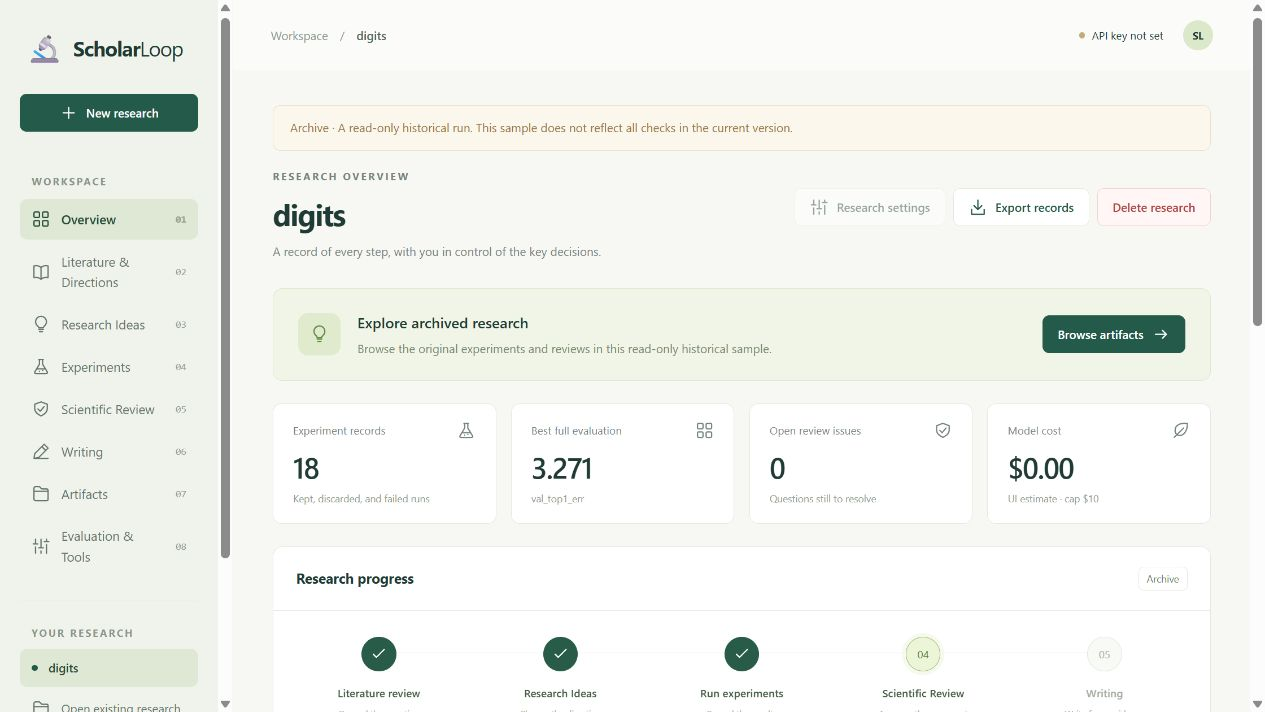
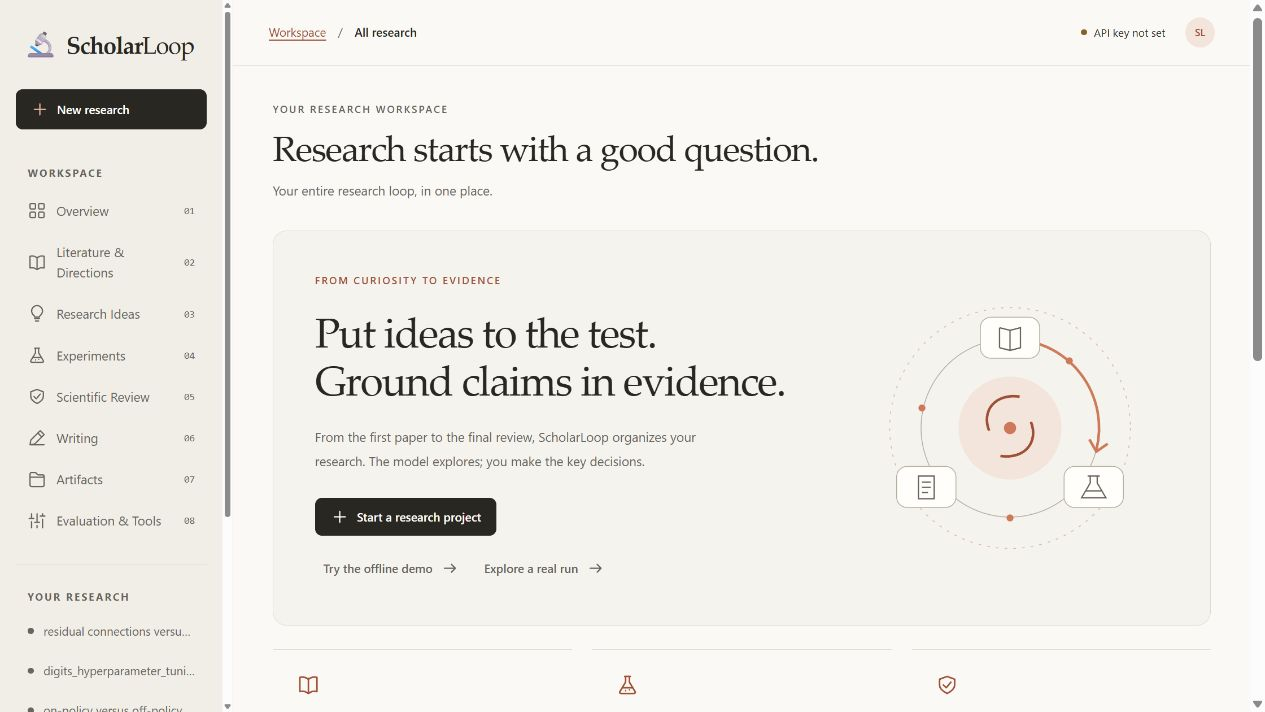
change ui style

diff --git a/scholarloop/ui/static/style.css b/scholarloop/ui/static/style.css
@@ -1,12 +1,315 @@
 @charset "UTF-8";
-:root{--bg:#f7f8f4;--paper:#fff;--ink:#203b35;--muted:#78857e;--line:#e3e8e1;--green:#245a49;--lime:#e4f1c0;--pale:#eff4e9;--orange:#bb643e;--red:#b14343;--shadow:0 16px 60px #203b3510;font-family:Inter,"Segoe UI","Microsoft YaHei",system-ui,sans-serif;color:var(--ink);font-size:14px;line-height:1.6;font-synthesis:none}
-*{box-sizing:border-box}body{margin:0;background:var(--bg)}button,input,select,textarea{font:inherit}button,a,input,select,textarea{touch-action:manipulation}button{cursor:pointer}button:disabled{cursor:not-allowed;opacity:.45}a{color:var(--green)}button:focus-visible,a:focus-visible,input:focus-visible,textarea:focus-visible,select:focus-visible{outline:3px solid #99be65;outline-offset:3px}button{color:inherit}svg{flex-shrink:0}h1,h2,h3,p{margin:0}h1{font-size:30px;line-height:1.3;letter-spacing:-1px;font-weight:650}h2{font-size:18px;font-weight:650}h3{font-size:15px;font-weight:600}small{font-size:12px}.muted{color:var(--muted)}.mono{font-family:"Cascadia Code",Consolas,monospace;font-size:12px}.eyebrow{font-size:10px;font-weight:700;letter-spacing:2px;text-transform:uppercase;color:var(--muted)}.icon{width:19px;height:19px;stroke:currentColor;fill:none;stroke-width:1.65;stroke-linecap:round;stroke-linejoin:round}.skip-link{position:fixed;top:-80px;left:20px;z-index:100;background:white;padding:12px}.skip-link:focus{top:8px}.boot{padding:100px;font-size:32px}.boot span{display:block;font-size:14px;color:var(--muted)}
-.shell{display:grid;grid-template-columns:236px minmax(0,1fr);min-height:100vh}.sidebar{position:sticky;top:0;height:100vh;padding:32px 20px 20px;background:#f0f3ec;border-right:1px solid var(--line);display:flex;flex-direction:column;overflow-y:auto}.brand{display:flex;align-items:center;gap:12px;font-size:21px;font-weight:650;letter-spacing:-.8px;padding:0 8px 29px}.brand img{width:34px;height:34px}.brand span span{font-weight:400}.new-button{width:100%;justify-content:center;margin-bottom:30px}.nav-label{padding:0 12px;margin:12px 0 8px;font-size:10px;letter-spacing:1.8px;color:#8b978b;font-weight:650}.nav-item{border:0;background:none;text-align:left;width:100%;padding:10px 12px;border-radius:8px;display:flex;align-items:center;gap:11px;color:#67766b;margin:2px 0;font-size:13px}.nav-item:hover{background:#e7ecdf}.nav-item.active{background:#dfe8d4;color:#284d39;font-weight:600}.nav-item .number{margin-left:auto;font-size:10px;color:#94a18f;font-family:monospace}.project-list{border-top:1px solid #dfe5d9;margin-top:22px;padding-top:12px}.project{font-size:12px}.project .dot{width:6px;height:6px;border-radius:50%;background:#9daa93;flex-shrink:0}.project.active .dot{background:var(--green)}.project span.title{overflow:hidden;text-overflow:ellipsis;white-space:nowrap}.sidebar-bottom{margin-top:auto;padding-top:25px}.local-status{padding:14px 10px 0;border-top:1px solid #dfe5d9;font-size:10px;color:#87927f;letter-spacing:.5px;display:flex;align-items:center;gap:7px}.status-dot{width:6px;height:6px;background:#78a56b;border-radius:50%;display:inline-block}.workspace{min-width:0}.topbar{height:72px;padding:0 38px;border-bottom:1px solid var(--line);display:flex;justify-content:space-between;align-items:center;background:#fbfcf9;gap:16px}.breadcrumb{font-size:12px;color:#8d998f;display:flex;gap:12px;align-items:center;min-width:0}.breadcrumb strong{font-weight:500;color:#53685c;max-width:420px;white-space:nowrap;overflow:hidden;text-overflow:ellipsis}.top-actions{display:flex;align-items:center;gap:14px}.connection{font-size:11px;display:flex;gap:7px;align-items:center;background:none;border:0;white-space:nowrap}.connection.off .status-dot{background:#c5aa7e}.avatar{width:30px;height:30px;border-radius:50%;background:#dce8ca;display:grid;place-items:center;font-size:10px;font-weight:650}.content{max-width:1440px;margin:auto;padding:34px 40px 50px}.page-heading{display:flex;align-items:flex-start;justify-content:space-between;gap:20px;margin-bottom:28px}.page-heading .eyebrow{margin-bottom:10px}.subtitle{color:var(--muted);margin-top:9px;font-size:12px}.heading-actions{display:flex;gap:8px;align-items:center;padding-top:20px}.btn{display:inline-flex;gap:8px;align-items:center;justify-content:center;padding:9px 15px;border:1px solid var(--line);border-radius:7px;background:white;text-decoration:none;font-size:12px;line-height:1.6;font-weight:500;white-space:nowrap}.btn:hover{border-color:#adc2a3;background:#f7faf1}.btn.primary{color:white;background:var(--green);border-color:var(--green)}.btn.primary:hover{background:#1b493c}.btn.soft{background:var(--lime);border-color:var(--lime);color:#365337}.btn.ghost{background:transparent;border-color:transparent;padding:5px 8px;color:var(--muted)}.btn.danger{color:var(--red);background:#fff6f5;border-color:#f0d2ce}.btn.small{padding:5px 10px;font-size:11px}.btn.icon-only{padding:8px}.tag{display:inline-flex;gap:5px;align-items:center;font-size:10px;line-height:1.5;border-radius:5px;background:#edf1e8;color:#6a7b60;padding:4px 8px;white-space:nowrap}.tag.green{background:#e5f0de;color:#4f763e}.tag.amber{background:#faf0df;color:#a77837}.tag.red{background:#fae9e4;color:#ac5a45}.tag.blue{background:#e7eff5;color:#527491}.tag.outline{background:transparent;border:1px solid var(--line)}.tags{display:flex;gap:7px;flex-wrap:wrap;margin-top:13px}.panel{background:var(--paper);border:1px solid var(--line);border-radius:10px;overflow:hidden}.panel-header{display:flex;align-items:center;justify-content:space-between;padding:20px 23px;border-bottom:1px solid var(--line);gap:14px}.panel-header h2{font-size:14px}.panel-body{padding:22px 24px}.row{display:flex;align-items:center;gap:12px}.space-between{justify-content:space-between}.stack{display:grid;gap:20px}.grid-two{display:grid;grid-template-columns:minmax(0,1.6fr) minmax(270px,1fr);gap:22px}.cards{display:grid;grid-template-columns:repeat(3,minmax(0,1fr));gap:17px}.stats{display:grid;grid-template-columns:repeat(4,minmax(0,1fr));gap:15px;margin:23px 0}.stat{background:white;border:1px solid var(--line);border-radius:9px;padding:17px 20px}.stat-label{font-size:11px;color:var(--muted);display:flex;align-items:center;justify-content:space-between}.stat-value{font-family:"Segoe UI",sans-serif;font-size:29px;letter-spacing:-1px;line-height:1.5;margin-top:6px;font-weight:500}.stat-note{font-size:10px;color:#93a08e;margin-top:2px}.stat-value small{font-size:13px;letter-spacing:0;color:var(--muted);margin-left:4px}.callout{padding:22px 25px;border:1px solid #dce9cb;background:#f0f5e8;border-radius:10px;display:flex;align-items:center;gap:17px}.callout .callout-icon{background:#e0ebce;width:43px;height:43px;border-radius:10px;display:grid;place-items:center;flex-shrink:0;color:#618a43}.callout p{font-size:12px;color:#7a8b6e;margin-top:5px}.callout .btn{margin-left:auto}.callout h3{font-weight:600}.notice{padding:13px 17px;border:1px solid #eadfc8;border-radius:8px;background:#fcf7ec;color:#997746;font-size:12px;margin-bottom:18px}.notice.error{color:#a34d43;border-color:#eed1cb;background:#fff3ef}.workflow{display:grid;grid-template-columns:repeat(5,minmax(0,1fr));gap:0;padding:25px 15px 24px}.workflow-step{position:relative;text-align:center;border:0;background:none;min-width:0;color:#a5afa0}.workflow-step:before{content:"";position:absolute;height:1px;background:#e3e9db;top:17px;left:-50%;width:100%;z-index:0}.workflow-step:first-child:before{display:none}.step-circle{width:35px;height:35px;border:1px solid #e0e7d8;border-radius:50%;display:grid;place-items:center;background:#f8faf5;position:relative;margin:0 auto 10px;z-index:1;font-size:11px}.workflow-step.current .step-circle{background:#edf5d8;border:1px solid #9fb879;color:#4f773c;box-shadow:0 0 0 4px #f6f9ed}.workflow-step.done .step-circle{background:#285c48;border-color:#285c48;color:#fff}.workflow-step.current,.workflow-step.done{color:#425c42}.workflow-step strong{font-size:11px;font-weight:500}.workflow-step small{display:block;font-size:9px;color:#a4af9c;margin-top:3px}.list-row{padding:15px 22px;border-bottom:1px solid #eef1e9;display:flex;align-items:center;gap:12px}.list-row:last-child{border-bottom:0}.list-row .grow{flex:1;min-width:0}.list-row .grow strong{font-weight:500;font-size:12px}.list-row .grow small{display:block;color:var(--muted);margin-top:3px;word-break:break-word}.file-icon{width:34px;height:38px;background:#f3f5ee;border:1px solid #e8eddf;border-radius:6px;display:grid;place-items:center;color:#7c916f}.empty{padding:40px 22px;text-align:center;color:var(--muted);font-size:12px}.empty .empty-symbol{width:50px;height:50px;border:1px dashed #ccd8c2;background:#f5f8ef;border-radius:13px;display:grid;place-items:center;margin:0 auto 13px;color:#91a17f}.empty h3{color:#61715a;font-size:13px;font-weight:500;margin-bottom:7px}.empty p{max-width:370px;margin:auto;line-height:1.9}.empty .btn{margin-top:19px}.welcome{min-height:460px;background:#edf2e6;border:1px solid #dee6d4;border-radius:14px;padding:54px;position:relative;overflow:hidden;display:grid;grid-template-columns:1.3fr 1fr;align-items:center;gap:30px}.welcome h1{font-size:43px;line-height:1.45;letter-spacing:-1.5px;margin:18px 0}.welcome p{font-size:13px;line-height:1.9;color:#748369;max-width:390px;margin-bottom:28px}.welcome-art{width:100%;max-width:330px;justify-self:center}.welcome .eyebrow{color:#7e9567}.welcome-links{display:flex;gap:12px;margin-top:18px}.feature-grid{display:grid;grid-template-columns:repeat(3,1fr);gap:20px;margin-top:25px}.feature{padding:25px}.feature .icon{color:#7c9667;width:23px;height:23px}.feature h3{margin:14px 0 6px;font-size:13px}.feature p{font-size:12px;color:var(--muted);line-height:1.9}.project-grid{margin-top:30px}.project-card{padding:23px;border:1px solid var(--line);border-radius:9px;background:white;cursor:pointer;text-align:left;width:100%}.project-card:hover{border-color:#aebf9b;box-shadow:var(--shadow)}.project-card h3{margin:12px 0 10px}.project-card .muted{font-size:11px}.section-title{display:flex;align-items:center;justify-content:space-between;margin-bottom:15px}.section-title h2{font-size:15px}.direction-card,.idea-card{padding:23px;display:flex;flex-direction:column;gap:12px}.direction-card p,.idea-card p{color:#7b8877;font-size:12px;line-height:1.9}.direction-card .btn,.idea-card .btn{margin-top:auto}.card-number{font-family:monospace;color:#a7b299;font-size:12px}.card-meta{font-size:10px;color:#94a185;border-top:1px solid var(--line);padding-top:12px}.action-row{display:flex;gap:8px;flex-wrap:wrap;margin:0 0 20px}.table-wrap{overflow-x:auto}table{border-collapse:collapse;width:100%;font-size:12px}th{text-align:left;font-size:10px;letter-spacing:.4px;color:#8c9a84;background:#f9fbf6;padding:11px 19px;font-weight:500;white-space:nowrap}td{padding:14px 19px;border-top:1px solid #edf1e7;white-space:nowrap}td.long{max-width:270px;overflow:hidden;text-overflow:ellipsis}.score{font-weight:650;color:#4e7251}.chart{padding:15px 20px 0}.chart svg{width:100%;height:160px;display:block}.chart-caption{font-size:10px;color:#99a48f;padding:0 25px 18px}.chart-grid{stroke:#ecf0e5;stroke-dasharray:4 4}.chart-line{stroke:#709453;stroke-width:2.5;fill:none}.chart-dot{fill:#f8fbf3;stroke:#709453;stroke-width:2}.chart-label{fill:#9ba98f;font-size:10px;font-family:inherit}.tool-grid{display:grid;grid-template-columns:repeat(2,minmax(0,1fr));gap:16px}.tool-card{padding:22px}.tool-card p{font-size:12px;color:var(--muted);margin:7px 0 18px}.issue{border-left:3px solid #d6ac7e;margin:16px 22px;padding:4px 0 4px 14px}.issue p{font-size:12px;line-height:1.8;color:#7c8273;margin-top:5px}.issue strong{font-size:12px}.writing-stages{display:flex;gap:10px;margin-bottom:25px;flex-wrap:wrap}.writing-stage{padding:12px 18px;border:1px solid var(--line);border-radius:8px;background:white;font-size:12px;flex:1;min-width:120px}.writing-stage.active{background:#edf4df;border-color:#bad296}.writing-stage .eyebrow{margin-bottom:3px}.file-search{padding:10px 14px;width:100%;border:1px solid var(--line);background:white;border-radius:7px;margin-bottom:16px}.file-list{max-height:570px;overflow-y:auto}.file-list .list-row{padding:12px 18px}.file-name{background:none;border:0;text-align:left;font-size:12px;color:#405a3c;overflow-wrap:anywhere}.file-name:hover{text-decoration:underline}.log{margin:0;background:#203c33;color:#c7dac3;padding:23px;font-family:"Cascadia Code",Consolas,monospace;font-size:11px;line-height:1.9;white-space:pre-wrap;overflow-wrap:anywhere;max-height:350px;overflow-y:auto;min-height:100px}.log-placeholder{color:#9aaa92}.task-row{width:100%;text-align:left;background:white;border:0;border-bottom:1px solid var(--line)}.task-row:hover,.task-row.selected{background:#f5f8ee}.task-time{font-size:10px;color:var(--muted)}.task-summary{font-size:11px;color:#90a084;padding:11px 22px;background:#f8faf4}.pulsing{animation:pulse 1.6s infinite}@keyframes pulse{50%{opacity:.4}}.footer-note{font-size:10px;color:#a0aa97;margin-top:26px;display:flex;justify-content:space-between;gap:16px}.spacer{height:22px}
-dialog{border:1px solid #e0e7d6;border-radius:14px;padding:0;width:min(620px,calc(100vw - 32px));max-height:88vh;color:var(--ink);background:#fbfcf8;box-shadow:0 30px 100px #142d3940}dialog::backdrop{background:#20352a65;backdrop-filter:blur(3px)}.dialog-header{padding:24px 27px 20px;background:#fff;border-bottom:1px solid var(--line);display:flex;align-items:flex-start;justify-content:space-between;gap:20px}.dialog-header h2{font-size:19px}.dialog-header p{font-size:11px;color:var(--muted);margin-top:7px}.dialog-body{padding:24px 27px;overflow-y:auto;max-height:65vh}.dialog-footer{padding:17px 27px;border-top:1px solid var(--line);display:flex;justify-content:flex-end;gap:10px;background:white}.field{display:grid;gap:6px;margin-bottom:18px}.field label{font-size:12px;color:#61755c}.field input,.field select,.field textarea{width:100%;padding:10px 12px;border:1px solid #dfe5d6;border-radius:7px;background:#fff;color:var(--ink);font-size:12px;min-width:0}.field textarea{resize:vertical;min-height:83px;line-height:1.8}.field textarea.code{font-family:Consolas,monospace;font-size:11px;min-height:140px}.field small{color:#8a9880;font-size:10px}.field.checkbox{display:flex;align-items:center;gap:9px}.field.checkbox input{width:16px;height:16px;accent-color:var(--green)}.field.checkbox label{margin:0}.form-grid{display:grid;grid-template-columns:1fr 1fr;gap:0 18px}.form-error{padding:12px;background:#fff0e9;color:#b6533e;border-radius:7px;font-size:12px;white-space:pre-wrap;overflow-wrap:anywhere;margin-bottom:15px}.form-note{font-size:11px;line-height:1.8;color:#8a967e;margin-bottom:20px}.field-required{color:#b98c50}.artifact-dialog{width:min(1020px,calc(100vw - 38px))}.artifact-content{padding:30px 40px;max-height:70vh;overflow:auto;background:white;color:#495b47;font-size:13px;line-height:1.9}.artifact-content pre{white-space:pre-wrap;overflow-wrap:anywhere;font:12px/1.8 "Cascadia Code",Consolas,monospace}.artifact-content h1{font-size:26px;margin:0 0 20px}.artifact-content h2{font-size:20px;margin:25px 0 12px}.artifact-content h3{font-size:16px;margin:20px 0 10px}.artifact-content p{margin:12px 0;overflow-wrap:anywhere}.artifact-content li{margin:5px 0}.artifact-content blockquote{border-left:3px solid #c5d7b2;padding:6px 18px;background:#f6f9f0;margin:16px 0}.artifact-content code{font:12px Consolas,monospace;background:#f0f4e9;padding:2px 4px}.artifact-content pre code{background:transparent}.artifact-content table{white-space:normal;display:block;overflow-x:auto;margin:18px 0}.artifact-content th,.artifact-content td{white-space:normal;min-width:110px;padding:10px 12px}.artifact-content hr{border:0;border-top:1px solid var(--line);margin:25px 0}details{margin-top:15px}summary{cursor:pointer;font-size:12px;color:var(--muted)}.setting-line{display:flex;justify-content:space-between;padding:9px 0;border-bottom:1px solid var(--line);font-size:12px}.setting-line span{color:var(--muted)}#toast{position:fixed;bottom:27px;left:50%;transform:translateX(-50%);background:#254d3d;color:#f1f5ec;padding:13px 23px;border-radius:9px;font-size:12px;box-shadow:var(--shadow);z-index:100;max-width:90vw}#toast.error{background:#9d4c3f}
-@media(min-width:1600px){.content{padding-top:44px}.welcome{min-height:500px}.welcome h1{font-size:48px}}
-@media(max-width:1150px){.shell{grid-template-columns:205px minmax(0,1fr)}.sidebar{padding:25px 14px}.content{padding:28px 25px}.topbar{padding:0 25px}.grid-two{grid-template-columns:1fr}.cards{grid-template-columns:repeat(2,1fr)}.welcome{padding:35px}.welcome h1{font-size:35px}.welcome-art{max-width:250px}.stat{padding:15px}.stat-value{font-size:25px}.callout{flex-wrap:wrap}.callout .btn{margin-left:60px}}
-.agent-activity{margin:0;padding:14px 20px;border-top:1px solid var(--line)}.agent-activity .list-row{padding:10px 0}.agent-activity summary{font-size:11px}
-.breadcrumb-home{border:0;background:none;padding:0;color:inherit;font:inherit}.breadcrumb-home:hover{color:var(--green);text-decoration:underline;text-underline-offset:3px}
-.brand-row{display:flex;align-items:flex-start;gap:4px}.brand{border:0;background:none;text-align:left;color:inherit;white-space:nowrap}.brand:hover{color:var(--green)}.breadcrumb-project{border:0;background:none;padding:0;font:inherit;font-weight:500;color:#53685c;max-width:420px;white-space:nowrap;overflow:hidden;text-overflow:ellipsis}.breadcrumb-project:hover{text-decoration:underline;text-underline-offset:3px}.breadcrumb-home{flex-shrink:0}
-@media(prefers-reduced-motion:reduce){*{animation:none!important;transition:none!important}}
-body{min-width:980px}.page-heading,.heading-actions{flex-wrap:wrap}.project-card{padding:0;cursor:default}.project-open{display:block;width:100%;padding:23px;border:0;background:none;text-align:left;border-radius:9px;color:inherit}.project-open:hover{background:#f6f9ef}.project-card-footer{padding:10px 18px;border-top:1px solid var(--line);display:flex;justify-content:space-between;align-items:center;gap:12px}.project-destination{font-size:11px;color:var(--muted)}
+
+/* Warm paper surfaces, editorial headings, and restrained terracotta accents. */
+:root {
+  --bg: #faf9f5;
+  --paper: #fffefa;
+  --sidebar: #f0eee6;
+  --surface: #f5f3ed;
+  --hover: #e9e6dd;
+  --ink: #292722;
+  --muted: #68655d;
+  --line: #dedbd2;
+  --line-strong: #b6afa2;
+  --accent: #9f5036;
+  --accent-hover: #96482f;
+  --accent-soft: #f3e5dc;
+  --accent-line: #dfb49f;
+  --accent-art: #ce7959;
+  --success: #526343;
+  --success-soft: #edf0e6;
+  --warning: #896128;
+  --warning-soft: #f8f0e2;
+  --red: #a0443b;
+  --red-soft: #faeeea;
+  --info: #4c657c;
+  --info-soft: #eaf0f4;
+  --shadow: 0 8px 28px #29272209;
+  --font-body: -apple-system, BlinkMacSystemFont, "Segoe UI", sans-serif;
+  --font-heading: "Iowan Old Style", "Palatino Linotype", "Book Antiqua", Palatino, Georgia, serif;
+  --font-mono: "SFMono-Regular", Consolas, "Liberation Mono", monospace;
+  font-family: var(--font-body);
+  color: var(--ink);
+  font-size: 14px;
+  line-height: 1.6;
+  font-synthesis: none;
+  color-scheme: light;
+}
+
+*{box-sizing:border-box}
+body{margin:0;background:var(--bg)}
+button,input,select,textarea{font:inherit}
+button,a,input,select,textarea{touch-action:manipulation}
+button{cursor:pointer}
+button:disabled{cursor:not-allowed;opacity:.45}
+a{color:var(--accent)}
+button:focus-visible,a:focus-visible,input:focus-visible,textarea:focus-visible,select:focus-visible{outline:3px solid var(--accent);outline-offset:3px}
+button{color:inherit}
+svg{flex-shrink:0}
+h1,h2,h3,p{margin:0}
+h1{font-family:var(--font-heading);font-size:36px;line-height:1.2;letter-spacing:-1.1px;font-weight:400;text-wrap:balance;overflow-wrap:anywhere}
+h2{font-size:18px;font-weight:600;letter-spacing:-.2px}
+h3{font-size:15px;font-weight:600}
+small{font-size:12px}
+.muted{color:var(--muted)}
+.mono{font-family:var(--font-mono);font-size:12px}
+.eyebrow{font-size:10px;font-weight:600;letter-spacing:1.7px;text-transform:uppercase;color:var(--muted)}
+.icon{width:19px;height:19px;stroke:currentColor;fill:none;stroke-width:1.65;stroke-linecap:round;stroke-linejoin:round}
+.skip-link{position:fixed;top:-80px;left:20px;z-index:100;background:var(--paper);padding:12px}
+.skip-link:focus{top:8px}
+.boot{padding:100px;font-size:32px}
+.boot span{display:block;font-size:14px;color:var(--muted)}
+.shell{display:grid;grid-template-columns:236px minmax(0,1fr);min-height:100vh}
+.sidebar{position:sticky;top:0;height:100vh;padding:26px 16px 18px;background:var(--sidebar);border-right:1px solid var(--line);display:flex;flex-direction:column;overflow-y:auto;scrollbar-width:thin}
+.brand{display:flex;align-items:center;gap:10px;font-family:var(--font-heading);font-size:24px;font-weight:600;letter-spacing:-.8px;padding:0 9px 26px}
+.brand img{width:32px;height:32px}
+.brand span span{font-weight:400}
+.btn.new-button{width:100%;justify-content:flex-start;margin-bottom:24px;padding:10px 14px}
+.nav-label{padding:0 12px;margin:12px 0 8px;font-size:10px;letter-spacing:1.8px;color:var(--muted);font-weight:650}
+.nav-item{border:0;background:none;text-align:left;width:100%;padding:9px 12px;border-radius:6px;display:flex;align-items:center;gap:10px;color:var(--muted);margin:3px 0;font-size:13px;transition:background .15s,color .15s}
+.nav-item:hover{background:var(--hover)}
+.nav-item.active{background:var(--hover);color:var(--ink);font-weight:600}
+.nav-item .number{margin-left:auto;font-size:10px;color:var(--muted);font-family:var(--font-mono)}
+.project-list{border-top:1px solid var(--line);margin-top:22px;padding-top:12px}
+.project{font-size:12px}
+.project .dot{width:6px;height:6px;border-radius:50%;background:var(--muted);flex-shrink:0}
+.project.active .dot{background:var(--accent)}
+.project span.title{overflow:hidden;text-overflow:ellipsis;white-space:nowrap}
+.sidebar-bottom{margin-top:auto;padding-top:25px}
+.local-status{padding:14px 10px 0;border-top:1px solid var(--line);font-size:10px;color:var(--muted);letter-spacing:.5px;display:flex;align-items:center;gap:7px}
+.status-dot{width:6px;height:6px;background:var(--success);border-radius:50%;display:inline-block}
+.workspace{min-width:0}
+.topbar{min-height:66px;padding:14px 36px;border-bottom:1px solid var(--line);display:flex;justify-content:space-between;align-items:center;background:var(--bg);gap:16px}
+.breadcrumb{font-size:12px;color:var(--muted);display:flex;gap:12px;align-items:center;min-width:0}
+.breadcrumb strong{font-weight:500;color:var(--ink);max-width:420px;white-space:nowrap;overflow:hidden;text-overflow:ellipsis}
+.top-actions{display:flex;align-items:center;gap:14px}
+.connection{font-size:11px;display:flex;gap:7px;align-items:center;background:none;border:0;white-space:nowrap}
+.connection.off .status-dot{background:var(--warning)}
+.avatar{width:30px;height:30px;border-radius:50%;background:var(--accent-soft);color:var(--accent);display:grid;place-items:center;font-size:10px;font-weight:600}
+.content{max-width:1440px;margin:auto;padding:36px 40px 50px}
+.page-heading{display:flex;align-items:flex-start;justify-content:space-between;gap:20px;margin-bottom:30px}
+.page-heading .eyebrow{margin-bottom:10px}
+.subtitle{color:var(--muted);margin-top:11px;font-size:13px}
+.heading-actions{display:flex;gap:8px;align-items:center;padding-top:20px}
+.btn{display:inline-flex;gap:8px;align-items:center;justify-content:center;padding:9px 15px;border:1px solid var(--line);border-radius:7px;background:var(--paper);color:var(--ink);text-decoration:none;font-size:12px;line-height:1.6;font-weight:500;white-space:nowrap;transition:background .15s,border-color .15s,color .15s}
+.btn:hover{border-color:var(--line-strong);background:var(--bg)}
+.btn.primary{color:var(--paper);background:var(--ink);border-color:var(--ink)}
+.btn.primary:hover{background:#454139;border-color:#454139}
+.btn.soft{background:var(--accent-soft);border-color:var(--accent-line);color:var(--accent-hover)}
+.btn.ghost{background:transparent;border-color:transparent;padding:5px 8px;color:var(--muted)}
+.btn.danger{color:var(--red);background:var(--red-soft);border-color:#e7c5bc}
+.btn.small{padding:5px 10px;font-size:11px}
+.btn.icon-only{padding:8px}
+.tag{display:inline-flex;gap:5px;align-items:center;font-size:10px;line-height:1.5;border-radius:5px;background:var(--success-soft);color:var(--muted);padding:4px 8px;white-space:nowrap}
+.tag.green{background:var(--success-soft);color:var(--success)}
+.tag.amber{background:var(--warning-soft);color:var(--warning)}
+.tag.red{background:var(--red-soft);color:var(--red)}
+.tag.blue{background:var(--info-soft);color:var(--info)}
+.tag.outline{background:transparent;border:1px solid var(--line)}
+.tags{display:flex;gap:7px;flex-wrap:wrap;margin-top:13px}
+.panel{background:var(--paper);border:1px solid var(--line);border-radius:12px;overflow:hidden}
+.panel-header{display:flex;align-items:center;justify-content:space-between;padding:20px 23px;border-bottom:1px solid var(--line);gap:14px;flex-wrap:wrap}
+.panel-header h2{font-size:14px}
+.panel-body{padding:22px 24px}
+.row{display:flex;align-items:center;gap:12px}
+.space-between{justify-content:space-between}
+.stack{display:grid;gap:20px}
+.grid-two{display:grid;grid-template-columns:minmax(0,1.6fr) minmax(270px,1fr);gap:22px}
+.cards{display:grid;grid-template-columns:repeat(3,minmax(0,1fr));gap:17px}
+.stats{display:grid;grid-template-columns:repeat(4,minmax(0,1fr));gap:15px;margin:23px 0}
+.stat{background:var(--paper);border:1px solid var(--line);border-radius:10px;padding:18px 20px}
+.stat-label{font-size:11px;color:var(--muted);display:flex;align-items:center;justify-content:space-between}
+.stat-value{font-family:var(--font-body);font-size:30px;letter-spacing:-1px;line-height:1.5;margin-top:7px;font-weight:500;font-variant-numeric:tabular-nums}
+.stat-note{font-size:10px;color:var(--muted);margin-top:2px}
+.stat-value small{font-size:13px;letter-spacing:0;color:var(--muted);margin-left:4px}
+.callout{padding:22px 25px;border:1px solid var(--accent-line);background:var(--accent-soft);border-radius:12px;display:flex;align-items:center;gap:17px}
+.callout .callout-icon{background:var(--paper);width:43px;height:43px;border-radius:10px;display:grid;place-items:center;flex-shrink:0;color:var(--accent)}
+.callout p{font-size:12px;color:var(--muted);margin-top:5px}
+.callout .btn{margin-left:auto}
+.callout h3{font-weight:600}
+.notice{padding:13px 17px;border:1px solid #e3d3b7;border-radius:8px;background:var(--warning-soft);color:var(--warning);font-size:12px;margin-bottom:18px}
+.notice.error{color:var(--red);border-color:#e7c5bc;background:var(--red-soft)}
+.workflow{display:grid;grid-template-columns:repeat(5,minmax(0,1fr));gap:0;padding:25px 15px 24px}
+.workflow-step{position:relative;text-align:center;border:0;background:none;min-width:0;color:var(--muted)}
+.workflow-step:before{content:"";position:absolute;height:1px;background:var(--line);top:17px;left:-50%;width:100%;z-index:0}
+.workflow-step:first-child:before{display:none}
+.step-circle{width:35px;height:35px;border:1px solid var(--line);border-radius:50%;display:grid;place-items:center;background:var(--bg);position:relative;margin:0 auto 10px;z-index:1;font-size:11px}
+.workflow-step.current .step-circle{background:var(--accent-soft);border:1px solid var(--accent);color:var(--accent);box-shadow:0 0 0 4px var(--bg)}
+.workflow-step.done .step-circle{background:var(--ink);border-color:var(--ink);color:var(--paper)}
+.workflow-step.current,.workflow-step.done{color:var(--ink)}
+.workflow-step strong{font-size:11px;font-weight:500}
+.workflow-step small{display:block;font-size:9px;color:var(--muted);margin-top:3px}
+.list-row{padding:15px 22px;border-bottom:1px solid var(--line);display:flex;align-items:center;gap:12px}
+.list-row:last-child{border-bottom:0}
+.list-row .grow{flex:1;min-width:0}
+.list-row .grow strong{font-weight:500;font-size:12px}
+.list-row .grow small{display:block;color:var(--muted);margin-top:3px;word-break:break-word}
+.file-icon{width:34px;height:38px;background:var(--surface);border:1px solid var(--line);border-radius:6px;display:grid;place-items:center;color:var(--muted)}
+.empty{padding:40px 22px;text-align:center;color:var(--muted);font-size:12px}
+.empty .empty-symbol{width:50px;height:50px;border:1px dashed var(--line-strong);background:var(--surface);border-radius:13px;display:grid;place-items:center;margin:0 auto 13px;color:var(--muted)}
+.empty h3{color:var(--ink);font-size:13px;font-weight:500;margin-bottom:7px}
+.empty p{max-width:370px;margin:auto;line-height:1.9}
+.empty .btn{margin-top:19px}
+.welcome{min-height:380px;background:var(--surface);border:1px solid var(--line);border-radius:14px;padding:42px;position:relative;overflow:hidden;display:grid;grid-template-columns:minmax(0,1.6fr) minmax(180px,1fr);align-items:center;gap:28px}
+.welcome h1{font-size:42px;line-height:1.16;letter-spacing:-1.3px;margin:20px 0}
+.welcome p{font-size:13px;line-height:1.9;color:var(--muted);max-width:430px;margin-bottom:25px}
+.welcome-art{width:100%;max-width:300px;justify-self:center}
+.welcome .eyebrow{color:var(--accent)}
+.welcome-links{display:flex;gap:8px;margin-top:18px;flex-wrap:wrap}
+.feature-grid{display:grid;grid-template-columns:repeat(3,minmax(0,1fr));gap:20px;margin-top:24px}
+.feature{padding:24px;background:transparent;border-color:transparent;border-radius:0;border-top-color:var(--line)}
+.feature .icon{color:var(--accent);width:23px;height:23px}
+.feature h3{margin:14px 0 8px;font-family:var(--font-heading);font-size:19px;font-weight:400}
+.feature p{font-size:12px;color:var(--muted);line-height:1.9}
+.project-grid{margin-top:30px}
+.project-card{padding:23px;border:1px solid var(--line);border-radius:9px;background:var(--paper);cursor:pointer;text-align:left;width:100%}
+.project-card:hover{border-color:var(--line-strong);box-shadow:var(--shadow)}
+.project-card h3{margin:12px 0 10px}
+.project-card .muted{font-size:11px}
+.section-title{display:flex;align-items:center;justify-content:space-between;margin-bottom:15px}
+.section-title h2{font-size:15px}
+.direction-card,.idea-card{padding:23px;display:flex;flex-direction:column;gap:12px}
+.direction-card p,.idea-card p{color:var(--muted);font-size:12px;line-height:1.9}
+.direction-card .btn,.idea-card .btn{margin-top:auto}
+.card-number{font-family:var(--font-mono);color:var(--muted);font-size:12px}
+.card-meta{font-size:10px;color:var(--muted);border-top:1px solid var(--line);padding-top:12px}
+.action-row{display:flex;gap:8px;flex-wrap:wrap;margin:0 0 20px}
+.table-wrap{overflow-x:auto}
+table{border-collapse:collapse;width:100%;font-size:12px}
+th{text-align:left;font-size:10px;letter-spacing:.4px;color:var(--muted);background:var(--surface);padding:11px 19px;font-weight:500;white-space:nowrap}
+td{padding:14px 19px;border-top:1px solid var(--line);white-space:nowrap}
+td.long{max-width:270px;overflow:hidden;text-overflow:ellipsis}
+.score{font-weight:650;color:var(--success)}
+.chart{padding:15px 20px 0}
+.chart svg{width:100%;height:160px;display:block}
+.chart-caption{font-size:10px;color:var(--muted);padding:0 25px 18px}
+.chart-grid{stroke:var(--line);stroke-dasharray:4 4}
+.chart-line{stroke:var(--accent);stroke-width:2.5;fill:none}
+.chart-dot{fill:var(--bg);stroke:var(--accent);stroke-width:2}
+.chart-label{fill:var(--muted);font-size:10px;font-family:inherit}
+.tool-grid{display:grid;grid-template-columns:repeat(2,minmax(0,1fr));gap:16px}
+.tool-card{padding:22px}
+.tool-card p{font-size:12px;color:var(--muted);margin:7px 0 18px}
+.issue{border-left:3px solid var(--accent-line);margin:16px 22px;padding:4px 0 4px 14px}
+.issue p{font-size:12px;line-height:1.8;color:var(--muted);margin-top:5px}
+.issue strong{font-size:12px}
+.writing-stages{display:flex;gap:10px;margin-bottom:25px;flex-wrap:wrap}
+.writing-stage{padding:12px 18px;border:1px solid var(--line);border-radius:8px;background:var(--paper);font-size:12px;flex:1;min-width:120px}
+.writing-stage.active{background:var(--accent-soft);border-color:var(--accent-line)}
+.writing-stage .eyebrow{margin-bottom:3px}
+.file-search{padding:10px 14px;width:100%;border:1px solid var(--line);background:var(--paper);border-radius:7px;margin-bottom:16px}
+.file-list{max-height:570px;overflow-y:auto}
+.file-list .list-row{padding:12px 18px}
+.file-name{background:none;border:0;text-align:left;font-size:12px;color:var(--ink);overflow-wrap:anywhere}
+.file-name:hover{text-decoration:underline}
+.log{margin:0;background:#292722;color:#e9e5db;padding:23px;font-family:var(--font-mono);font-size:11px;line-height:1.9;white-space:pre-wrap;overflow-wrap:anywhere;max-height:350px;overflow-y:auto;min-height:100px}
+.log-placeholder{color:#bdb7a9}
+.task-row{width:100%;text-align:left;background:var(--paper);border:0;border-bottom:1px solid var(--line)}
+.task-row:hover,.task-row.selected{background:var(--surface)}
+.task-time{font-size:10px;color:var(--muted)}
+.task-summary{font-size:11px;color:var(--muted);padding:11px 22px;background:var(--surface)}
+.pulsing{animation:pulse 1.6s infinite}
+@keyframes pulse{50%{opacity:.4}
+}
+.footer-note{font-size:10px;color:var(--muted);margin-top:26px;display:flex;justify-content:space-between;gap:16px}
+.spacer{height:22px}
+dialog{border:1px solid var(--line);border-radius:16px;padding:0;width:min(620px,calc(100vw - 32px));max-height:88vh;overflow:hidden;color:var(--ink);background:var(--bg);box-shadow:0 24px 80px #29272229}
+dialog[open],#dialog-form{display:flex;flex-direction:column;max-height:88vh;min-height:0}
+.dialog-header,.dialog-footer{flex-shrink:0}
+dialog::backdrop{background:#29272252;backdrop-filter:blur(3px)}
+.dialog-header{padding:24px 27px 20px;background:var(--paper);border-bottom:1px solid var(--line);display:flex;align-items:flex-start;justify-content:space-between;gap:20px}
+.dialog-header h2{font-family:var(--font-heading);font-size:27px;font-weight:400;line-height:1.25}
+.dialog-header p{font-size:11px;color:var(--muted);margin-top:7px}
+.dialog-body{padding:24px 27px;overflow-y:auto;min-height:0;scrollbar-width:thin}
+.dialog-footer{padding:17px 27px;border-top:1px solid var(--line);display:flex;justify-content:flex-end;gap:10px;background:var(--paper)}
+.field{display:grid;gap:6px;margin-bottom:18px}
+.field label{font-size:12px;color:var(--ink);font-weight:500}
+.field input,.field select,.field textarea{width:100%;padding:10px 12px;border:1px solid var(--line);border-radius:7px;background:var(--paper);color:var(--ink);font-size:12px;min-width:0}
+.field textarea{resize:vertical;min-height:83px;line-height:1.8}
+.field textarea.code{font-family:var(--font-mono);font-size:11px;min-height:140px}
+.field small{color:var(--muted);font-size:10px}
+.field.checkbox{display:flex;align-items:center;gap:9px}
+.field.checkbox input{width:16px;height:16px;accent-color:var(--accent)}
+.field.checkbox label{margin:0}
+.form-grid{display:grid;grid-template-columns:1fr 1fr;gap:0 18px}
+.form-error{padding:12px;background:var(--red-soft);color:var(--red);border-radius:7px;font-size:12px;white-space:pre-wrap;overflow-wrap:anywhere;margin-bottom:15px}
+.form-note{font-size:11px;line-height:1.8;color:var(--muted);margin-bottom:20px}
+.field-required{color:var(--warning)}
+.artifact-dialog{width:min(1020px,calc(100vw - 38px))}
+.artifact-content{padding:30px 40px;max-height:70vh;overflow:auto;background:var(--paper);color:var(--ink);font-size:14px;line-height:1.9}
+.artifact-content pre{white-space:pre-wrap;overflow-wrap:anywhere;font:12px/1.8 var(--font-mono)}
+.artifact-content h1{font-size:26px;margin:0 0 20px}
+.artifact-content h2{font-family:var(--font-heading);font-size:24px;font-weight:400;margin:25px 0 12px}
+.artifact-content h3{font-size:16px;margin:20px 0 10px}
+.artifact-content p{margin:12px 0;overflow-wrap:anywhere}
+.artifact-content li{margin:5px 0}
+.artifact-content blockquote{border-left:3px solid var(--accent-line);padding:6px 18px;background:var(--surface);margin:16px 0}
+.artifact-content code{font:12px var(--font-mono);background:var(--surface);padding:2px 4px}
+.artifact-content pre code{background:transparent}
+.artifact-content table{white-space:normal;display:block;overflow-x:auto;margin:18px 0}
+.artifact-content th,.artifact-content td{white-space:normal;min-width:110px;padding:10px 12px}
+.artifact-content hr{border:0;border-top:1px solid var(--line);margin:25px 0}
+details{margin-top:15px}
+summary{cursor:pointer;font-size:12px;color:var(--muted)}
+.setting-line{display:flex;justify-content:space-between;padding:9px 0;border-bottom:1px solid var(--line);font-size:12px}
+.setting-line span{color:var(--muted)}
+#toast{position:fixed;bottom:27px;left:50%;transform:translateX(-50%);background:var(--ink);color:var(--paper);padding:13px 23px;border-radius:9px;font-size:12px;box-shadow:var(--shadow);z-index:100;max-width:90vw}
+#toast.error{background:var(--red)}
+@media(min-width:1600px){.content{padding-top:44px}
+.welcome{min-height:420px}
+.welcome h1{font-size:48px}
+}
+@media(max-width:1150px){.shell{grid-template-columns:205px minmax(0,1fr)}
+.sidebar{padding:25px 14px}
+.brand{font-size:22px;gap:8px;padding-left:3px;padding-right:3px}
+.content{padding:28px 25px}
+.topbar{padding:0 25px}
+.grid-two{grid-template-columns:1fr}
+.cards{grid-template-columns:repeat(2,1fr)}
+.welcome{padding:35px}
+.welcome h1{font-size:36px}
+.welcome-art{max-width:250px}
+.stat{padding:15px}
+.stat-value{font-size:25px}
+.callout{flex-wrap:wrap}
+.callout .btn{margin-left:60px}
+}
+.agent-activity{margin:0;padding:14px 20px;border-top:1px solid var(--line)}
+.agent-activity .list-row{padding:10px 0}
+.agent-activity summary{font-size:11px}
+.breadcrumb-home{border:0;background:none;padding:0;color:inherit;font:inherit}
+.breadcrumb-home:hover{color:var(--accent);text-decoration:underline;text-underline-offset:3px}
+.brand-row{display:flex;align-items:flex-start;gap:4px}
+.brand{border:0;background:none;text-align:left;color:inherit;white-space:nowrap}
+.brand:hover{color:var(--accent)}
+.breadcrumb-project{border:0;background:none;padding:0;font:inherit;font-weight:500;color:var(--ink);max-width:420px;white-space:nowrap;overflow:hidden;text-overflow:ellipsis}
+.breadcrumb-project:hover{text-decoration:underline;text-underline-offset:3px}
+.breadcrumb-home{flex-shrink:0}
+@media(prefers-reduced-motion:reduce){*{animation:none!important;transition:none!important}
+}
+body{min-width:960px}
+.page-heading,.heading-actions{flex-wrap:wrap}
+.project-card{padding:0;cursor:default}
+.project-open{display:block;width:100%;padding:23px;border:0;background:none;text-align:left;border-radius:9px;color:inherit}
+.project-open:hover{background:var(--surface)}
+.project-card-footer{padding:10px 18px;border-top:1px solid var(--line);display:flex;justify-content:space-between;align-items:center;gap:12px}
+.project-destination{font-size:11px;color:var(--muted)}
+
+/* Shared interaction states and decorative illustration tokens. */
+.btn.ghost:hover { background: var(--hover); color: var(--ink); }
+.btn.soft:hover { background: #ead6c9; border-color: var(--accent); }
+.btn.danger:hover { background: #f3ded7; border-color: #d9a499; color: var(--red); }
+.nav-item.active > .icon, .nav-item.active .number { color: var(--accent); }
+.new-button .icon { color: #e8b59e; }
+.field input:hover, .field select:hover, .field textarea:hover, .file-search:hover { border-color: var(--line-strong); }
+input::placeholder, textarea::placeholder { color: var(--muted); opacity: 1; }
+.stat-label .icon { color: var(--muted); width: 18px; height: 18px; }
+.score { font-variant-numeric: tabular-nums; }
+.welcome-art .orbit { stroke: var(--line-strong); }
+.welcome-art .orbit-dashed { stroke: var(--accent-line); }
+.welcome-art .orbit-arrow { stroke: var(--accent-art); }
+.welcome-art .orbit-core { fill: var(--accent-soft); }
+.welcome-art .orbit-mark { stroke: var(--accent); }
+.welcome-art .orbit-dot { fill: var(--accent-art); }
+.welcome-art .orbit-card { fill: var(--paper); stroke: var(--line-strong); }
+.welcome-art .orbit-symbol { stroke: var(--muted); }

diff --git a/scholarloop/ui/static/app.js b/scholarloop/ui/static/app.js
@@ -232,7 +232,7 @@ function researchPicker() {
 }
 function home() {
   return heading("Research starts with a good question.","Your entire research loop, in one place.","YOUR RESEARCH WORKSPACE")+
-    `<section class="welcome"><div><div class="eyebrow">FROM CURIOSITY TO EVIDENCE</div><h1>Put ideas to the test.<br>Ground claims in evidence.</h1><p>From the first paper to the final review, ScholarLoop organizes your research. The model explores; you make the key decisions.</p><button class="btn primary" data-do="new">${icon("plus")} Start a research project</button><div class="welcome-links"><button class="btn ghost" data-do="demo">Try the offline demo ${icon("arrow")}</button><button class="btn ghost" data-do="sample">Explore a real run ${icon("arrow")}</button></div></div><svg class="welcome-art" viewBox="0 0 340 340" aria-hidden="true"><circle cx="170" cy="170" r="138" fill="none" stroke="#d7e2c7" stroke-dasharray="3 7"/><circle cx="170" cy="170" r="102" fill="none" stroke="#bdceaa" stroke-width="1"/><path d="M170 68a102 102 0 0 1 99 127" fill="none" stroke="#6f925a" stroke-width="3"/><path d="m261 183 8 14 13-9" fill="none" stroke="#6f925a" stroke-width="3"/><circle cx="170" cy="170" r="59" fill="#e0eacb"/><path d="M181 134c-28-4-44 16-35 39m13 29c28 4 44-16 35-39" fill="none" stroke="#517543" stroke-width="3"/><circle cx="170" cy="170" r="7" fill="#779653"/><rect x="136" y="43" width="68" height="47" rx="12" fill="#f9fbf4" stroke="#c7d6b5"/><path d="M158 55v23m0-23 12 3 12-3v23l-12 3-12-3m12-20v23" fill="none" stroke="#82996c" stroke-width="1.5"/><rect x="232" y="214" width="68" height="47" rx="12" fill="#f9fbf4" stroke="#c7d6b5"/><path d="M259 225h14m-11 0v8l-10 17h28l-10-17v-8m-13 17h18" fill="none" stroke="#82996c" stroke-width="1.5"/><rect x="40" y="214" width="68" height="47" rx="12" fill="#f9fbf4" stroke="#c7d6b5"/><path d="M65 225h18v26H65zM69 232h10m-10 6h10m-10 6h7" fill="none" stroke="#82996c" stroke-width="1.5"/><circle cx="69" cy="147" r="4" fill="#c0ceab"/><circle cx="238" cy="93" r="4" fill="#b3c799"/><circle cx="170" cy="273" r="4" fill="#b3c799"/></svg></section>`+
+    `<section class="welcome"><div><div class="eyebrow">FROM CURIOSITY TO EVIDENCE</div><h1>Put ideas to the test.<br>Ground claims in evidence.</h1><p>From the first paper to the final review, ScholarLoop organizes your research. The model explores; you make the key decisions.</p><button class="btn primary" data-do="new">${icon("plus")} Start a research project</button><div class="welcome-links"><button class="btn ghost" data-do="demo">Try the offline demo ${icon("arrow")}</button><button class="btn ghost" data-do="sample">Explore a real run ${icon("arrow")}</button></div></div><svg class="welcome-art" viewBox="0 0 340 340" aria-hidden="true"><circle cx="170" cy="170" r="138" fill="none" class="orbit-dashed" stroke-dasharray="3 7"/><circle cx="170" cy="170" r="102" fill="none" class="orbit" stroke-width="1"/><path d="M170 68a102 102 0 0 1 99 127" fill="none" class="orbit-arrow" stroke-width="3"/><path d="m261 183 8 14 13-9" fill="none" class="orbit-arrow" stroke-width="3"/><circle cx="170" cy="170" r="59" class="orbit-core"/><path d="M181 134c-28-4-44 16-35 39m13 29c28 4 44-16 35-39" fill="none" class="orbit-mark" stroke-width="3"/><circle cx="170" cy="170" r="7" class="orbit-dot"/><rect x="136" y="43" width="68" height="47" rx="12" class="orbit-card"/><path d="M158 55v23m0-23 12 3 12-3v23l-12 3-12-3m12-20v23" fill="none" class="orbit-symbol" stroke-width="1.5"/><rect x="232" y="214" width="68" height="47" rx="12" class="orbit-card"/><path d="M259 225h14m-11 0v8l-10 17h28l-10-17v-8m-13 17h18" fill="none" class="orbit-symbol" stroke-width="1.5"/><rect x="40" y="214" width="68" height="47" rx="12" class="orbit-card"/><path d="M65 225h18v26H65zM69 232h10m-10 6h10m-10 6h7" fill="none" class="orbit-symbol" stroke-width="1.5"/><circle cx="69" cy="147" r="4" class="orbit-dot"/><circle cx="238" cy="93" r="4" class="orbit-dot"/><circle cx="170" cy="273" r="4" class="orbit-dot"/></svg></section>`+
     `<div class="feature-grid">${[["book","Ideas grounded in sources","Search the literature around your question, choose directions, and compare hypotheses."],["flask","Traceable experiments","Run real experiments with independent scoring, recorded results, failures, and code provenance."],["shield","Reviewed arguments","Review the evidence, approve the key claims, then build the paper step by step."]].map(([ico,title,text])=>`<article class="panel feature">${icon(ico)}<h3>${title}</h3><p>${text}</p></article>`).join("")}</div>`+
     (state.boot.runs.length?`<section class="project-grid"><div class="section-title"><h2>Your research</h2><button class="btn ghost small" data-do="import">Open existing research ${icon("arrow")}</button></div>${researchCards("overview")}</section>`:"");
 }
